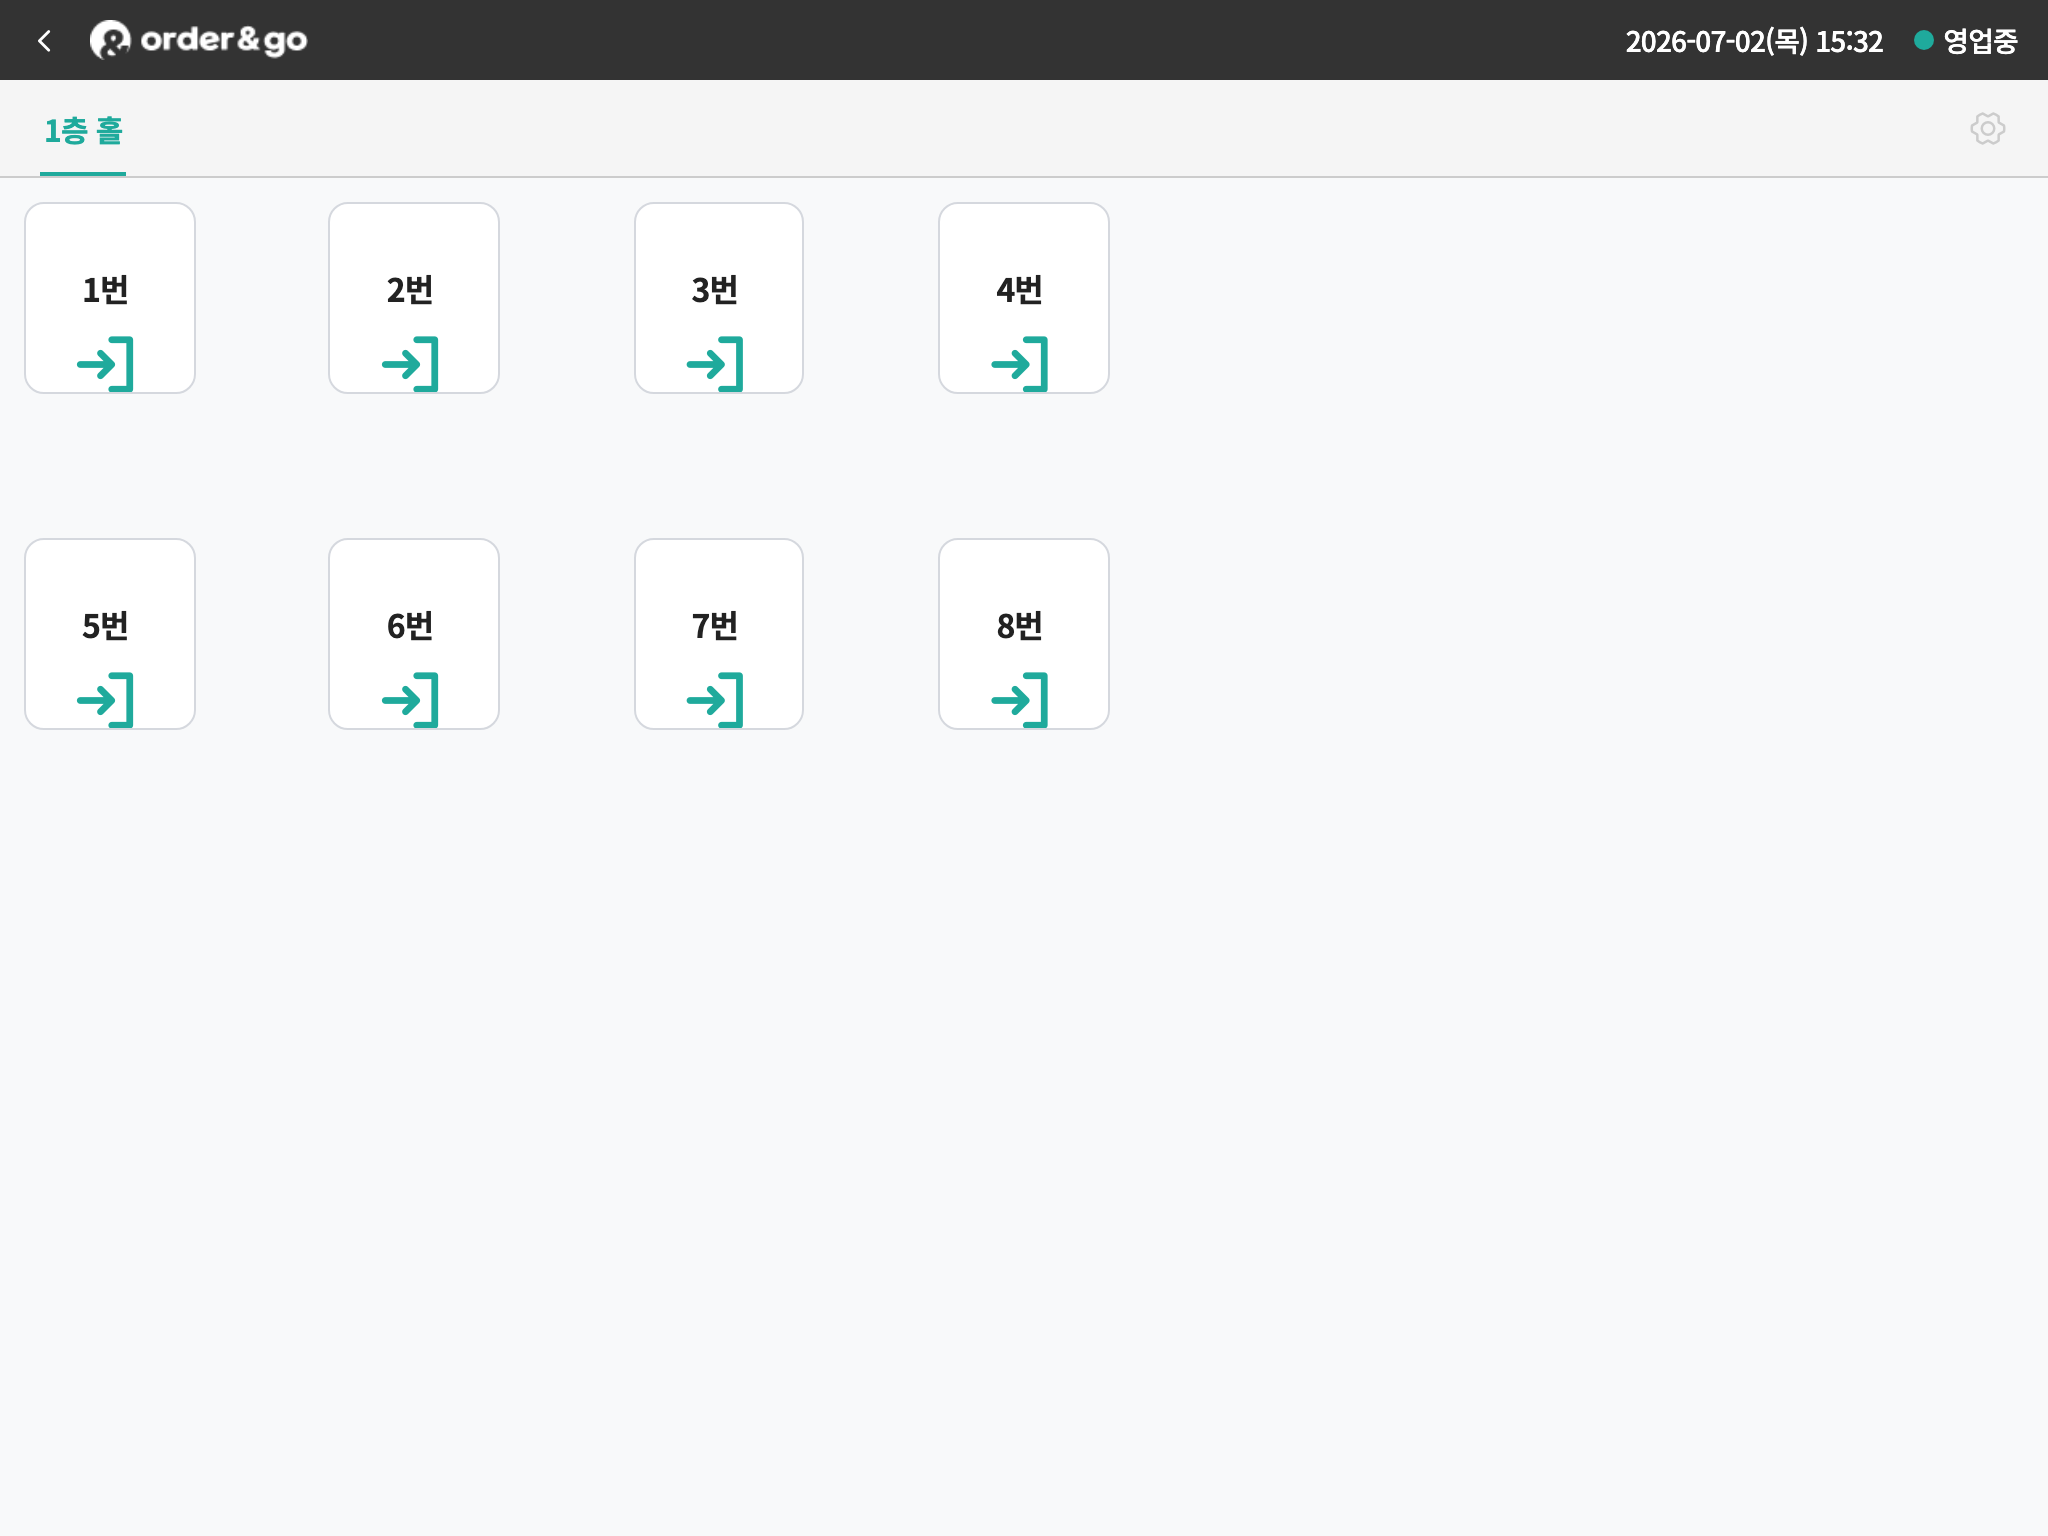
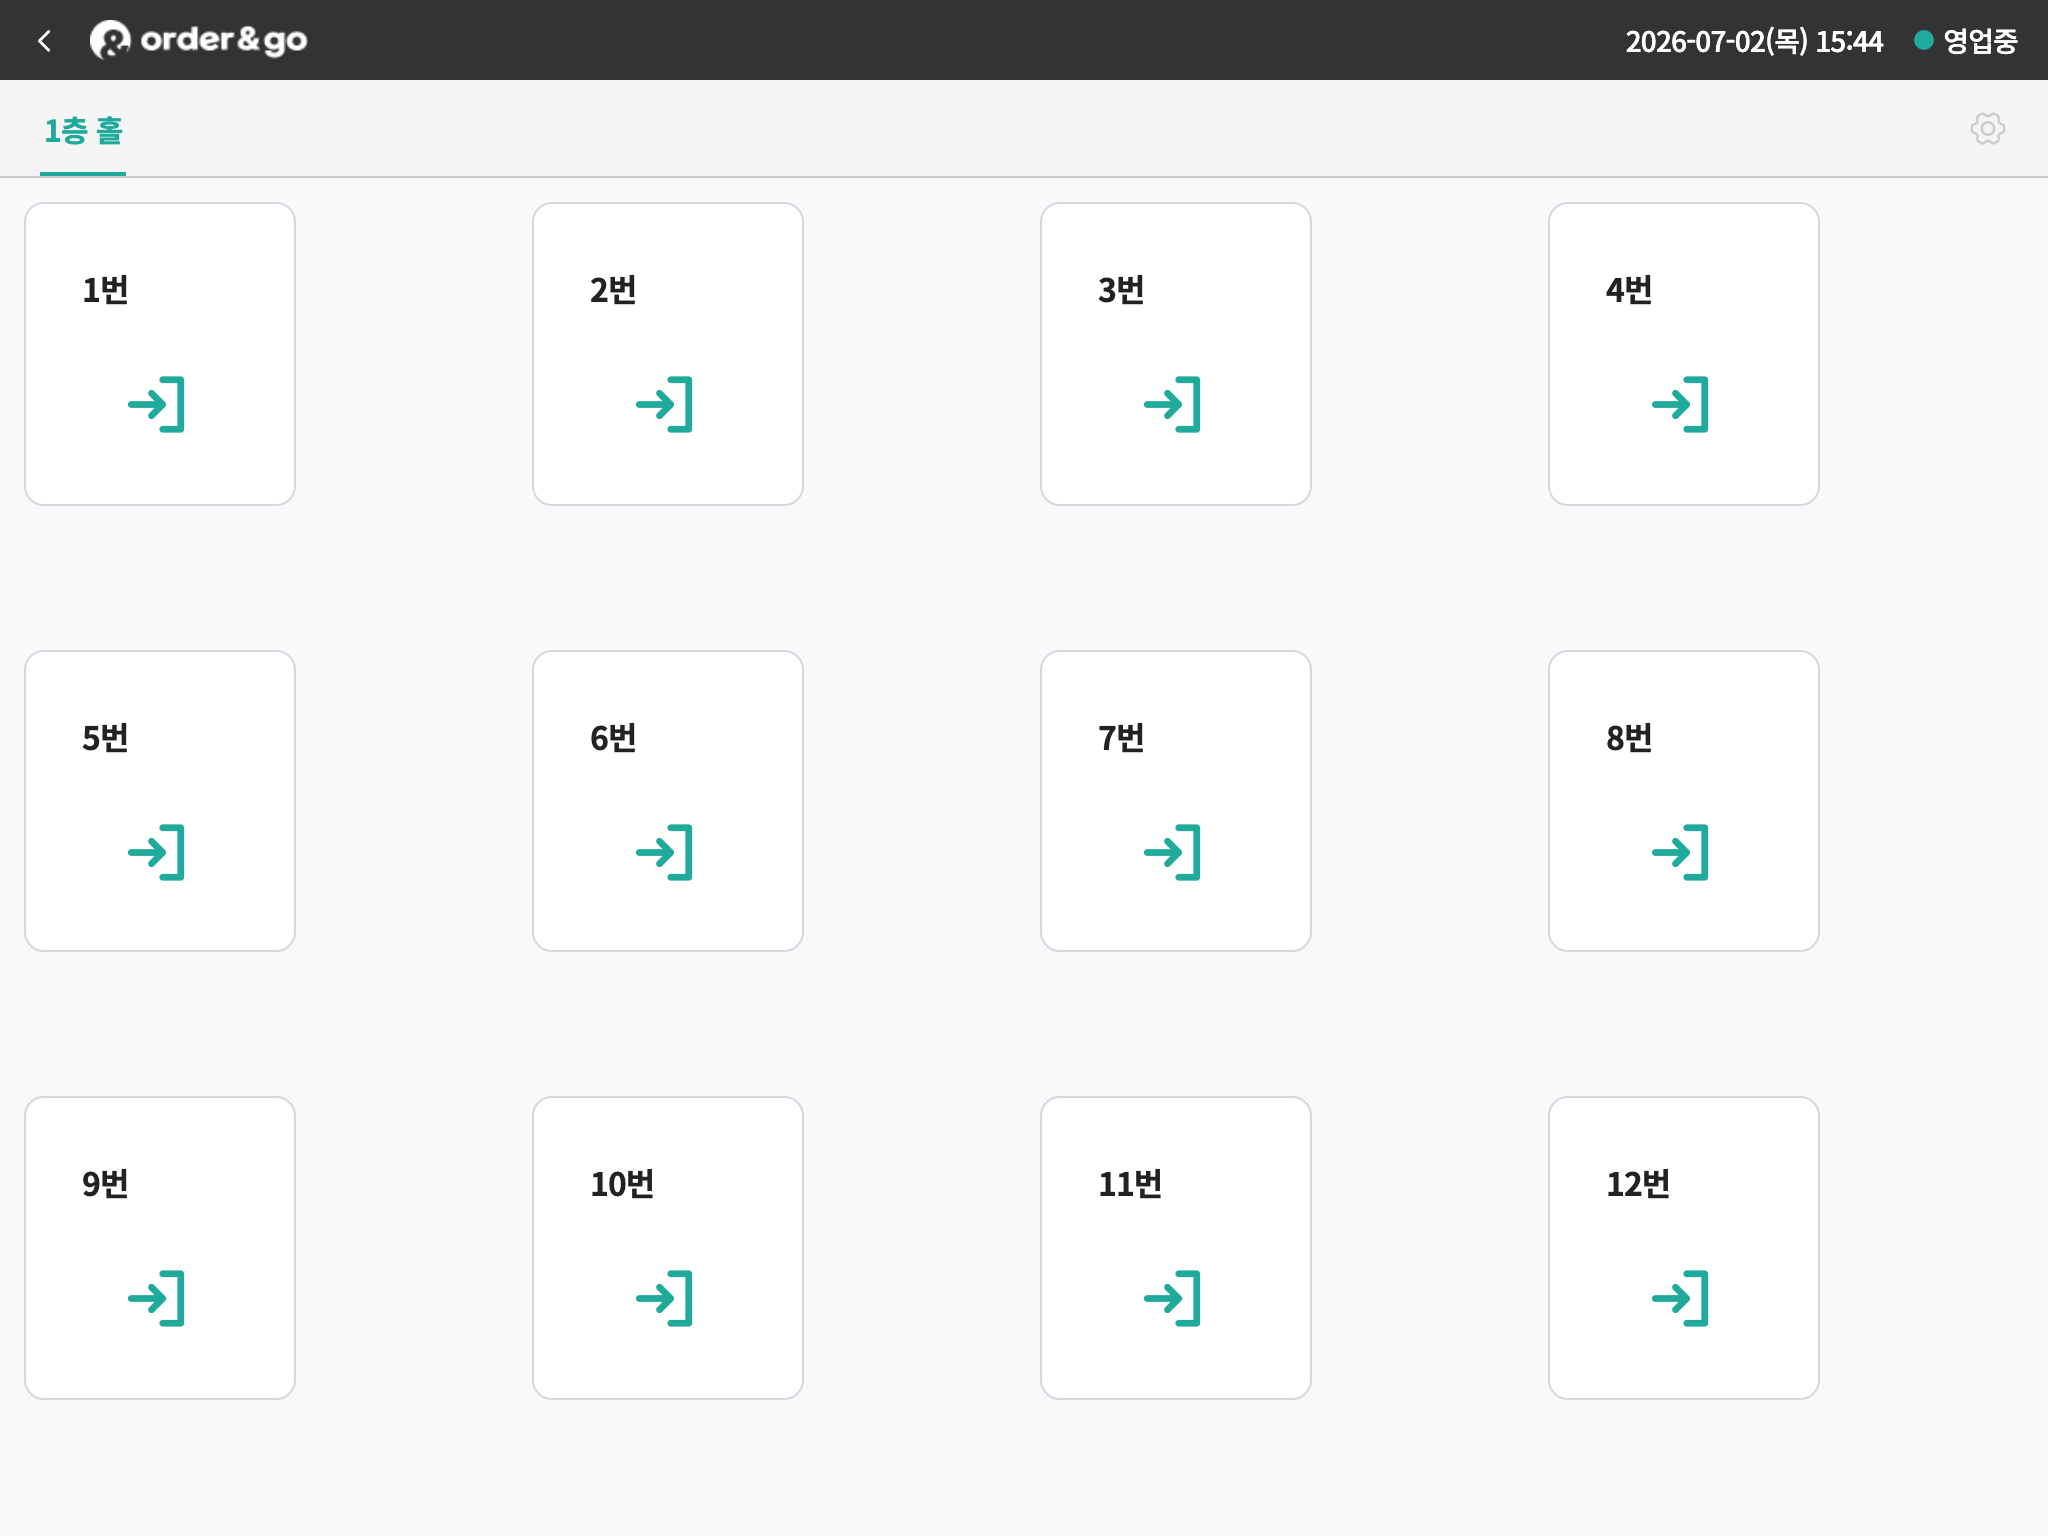
랜딩 캡처 개선: POS 테이블 12개·카드 잘림 수정, 폰 목업 노치 제거, 토스플레이스 단말기 결제 섹션 추가

diff --git a/app/static/css/landing.css b/app/static/css/landing.css
@@ -66,11 +66,7 @@
 /* 폰 프레임 (모바일 QR 주문) */
 .frame-phone {
   width: 280px; margin: 0 auto; background: #111; border-radius: 40px;
-  padding: 12px; box-shadow: var(--og-shadow-lg); position: relative;
-}
-.frame-phone::before {
-  content: ""; position: absolute; top: 20px; left: 50%; transform: translateX(-50%);
-  width: 110px; height: 22px; background: #111; border-radius: 0 0 14px 14px; z-index: 2;
+  padding: 12px; box-shadow: var(--og-shadow-lg);
 }
 .frame-phone img { width: 100%; display: block; border-radius: 30px; }
 
@@ -91,6 +87,19 @@
 .lp-feature-list { list-style: none; padding: 0; }
 .lp-feature-list li { display: flex; gap: var(--og-space-2); align-items: flex-start; font-size: var(--og-fs-sm); color: var(--og-text); margin-bottom: var(--og-space-2); }
 .lp-feature-list i { color: var(--og-primary); font-size: 18px; margin-top: 2px; }
+
+/* ---------- 결제 파트너 하이라이트 ---------- */
+.lp-partner { padding: var(--og-space-14) 0; }
+.lp-partner-box {
+  display: flex; gap: var(--og-space-6); align-items: center;
+  background: var(--og-primary-050); border: 1px solid var(--og-primary-100);
+  border-radius: var(--og-radius-xl); padding: var(--og-space-8);
+}
+.lp-partner-box > i { font-size: 48px; color: var(--og-primary); flex-shrink: 0; }
+.lp-partner-box h3 { font-size: var(--og-fs-md); font-weight: var(--og-fw-bold); margin-bottom: var(--og-space-2); }
+.lp-partner-box p { font-size: var(--og-fs-sm); color: var(--og-text-muted); }
+.lp-partner-box strong { color: var(--og-primary-dark); }
+@media (max-width: 768px) { .lp-partner-box { flex-direction: column; text-align: center; } }
 
 /* ---------- 이용 흐름 ---------- */
 .lp-steps { display: grid; grid-template-columns: repeat(4, 1fr); gap: var(--og-space-6); }

diff --git a/app/templates/landing.html b/app/templates/landing.html
@@ -23,7 +23,7 @@
 <!-- ================= 히어로 ================= -->
 <section class="lp-hero">
   <div class="og-container">
-    <span class="lp-hero-badge">포스 · QR주문 · 주방 · 결제 · 매장관리 올인원</span>
+    <span class="lp-hero-badge">포스 · QR주문 · 주방 · 토스 단말기 결제 · 매장관리 올인원</span>
     <h1>포스기부터 테이블오더까지,<br><span class="accent">오더앤고</span> 하나면 됩니다</h1>
     <p class="lp-hero-sub">
       비싼 포스기 없이도 QR 주문·카드결제·주방 관리·매출 정산을 한 번에.
@@ -80,6 +80,19 @@
       </div>
     </div>
     {% endfor %}
+  </div>
+</section>
+
+<!-- ================= 결제 파트너 하이라이트 ================= -->
+<section class="lp-partner">
+  <div class="og-container">
+    <div class="lp-partner-box">
+      <i class="ph ph-credit-card"></i>
+      <div>
+        <h3>토스플레이스 단말기로 카드결제까지 한 번에</h3>
+        <p>오더앤고는 <strong>토스플레이스(Toss Place) 결제 단말기</strong>와 연동됩니다. 별도의 POS 카드 리더기 없이 단말기에서 카드·간편결제를 처리하고, 결제 결과가 POS에 실시간으로 반영됩니다.</p>
+      </div>
+    </div>
   </div>
 </section>
 

diff --git a/scripts/capture/seed_demo.py b/scripts/capture/seed_demo.py
@@ -146,11 +146,12 @@ def run():
         tcat = TableCategory(store_id=sid, category_name="1층 홀", position=1)
         db.session.add(tcat); db.session.commit()
         tables = []
-        coords = [(0, 0), (3, 0), (6, 0), (9, 0), (0, 3), (3, 3), (6, 3), (9, 3)]
+        # 12 테이블: 4열 × 3행, 각 카드 3×3 (제목+주문내역이 잘리지 않는 크기)
+        coords = [(gx, gy) for gy in (0, 4, 8) for gx in (0, 5, 10, 15)]
         for i, (gx, gy) in enumerate(coords, start=1):
             t = Table(name=f"{i}번", seat_count=4 if i % 2 else 2, is_group=0,
                       table_category_id=tcat.id, position=i,
-                      grid_x=gx, grid_y=gy, grid_w=2, grid_h=2,
+                      grid_x=gx, grid_y=gy, grid_w=3, grid_h=3,
                       qr_token=f"demoqr{i}", qr_generated_at=datetime.now())
             db.session.add(t); tables.append(t)
         db.session.commit()
@@ -163,11 +164,12 @@ def run():
                                          use_quantity=(nm in ("물", "냅킨")), is_active=True))
         db.session.commit()
 
-        # ── 활성 주문 (POS/KDS 생동감) : 2·5번 테이블에 진행중 주문 ──
+        # ── 활성 주문 (POS/KDS 생동감) : 2·6·10번 테이블에 진행중 주문 ──
         ensure_order_status()
         now = datetime.now()
         for t, items in [(tables[1], [("짜장면", 2), ("탕수육", 1)]),
-                         (tables[4], [("짬뽕", 1), ("볶음밥", 1), ("코카콜라", 2)])]:
+                         (tables[5], [("짬뽕", 1), ("볶음밥", 1), ("코카콜라", 2)]),
+                         (tables[9], [("짜장면", 1), ("소주", 2)])]:
             tol = TableOrderList(store_id=sid, table_id=t.id, checkingin_at=now - timedelta(minutes=8))
             db.session.add(tol); db.session.commit()
             for nm, qty in items:
@@ -185,7 +187,7 @@ def run():
             "store_pw": STORE_PW,
             "kds_station_id": kds.id,
             "order_table_id": tables[1].id,   # 2번 (주문 있음)
-            "order_table_id2": tables[4].id,  # 5번 (주문 있음)
+            "order_table_id2": tables[5].id,  # 6번 (주문 있음)
             "qr_tokens": [t.qr_token for t in tables],
         }
         with open(IDS_FILE, "w") as f:
